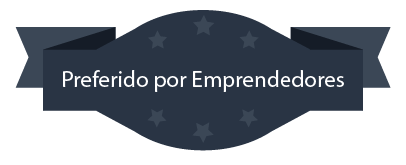
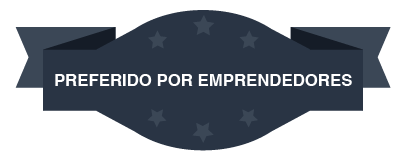
Cambio imagenes

Changed region(s): [[0.1182, 0.4242, 0.8867, 0.5455]]

diff --git a/index.html b/index.html
@@ -281,7 +281,7 @@
     <section class="ftco-section ftco-no-pt ftc-no-pb">
     	<div class="container">
     		<div class="row">
-    			<div class="col-lg-6 py-5">
+    			<div class="col-lg-6 py-5"> 
     				<img src="images/Img-nuestros-servicios.jpg" class="img-fluid" alt="">
     				<div class="heading-section ftco-animate mt-5">
 	            <h2 class="mb-4">Nuestros Servicios</h2>
@@ -358,10 +358,11 @@
 	          <div class="block-7" >
               
 	            <div class="text-center">
-
+                <img  src="images/pref-01.png" width="195px" height="auto">
 		            <h2 class="heading">Landing Page / One Page</h2>
-                <span class="price"><sup>$</sup><span class="number">279.99<!--<small class="per">/mo</small>--></span></span>
-                <span class="excerpt d-block">Preferido por los emprendedores</span>
+                
+                <!--<span class="price"><sup>$</sup><span class="number">279.99<small class="per">/mo</small></span></span>
+                <span class="excerpt d-block">Preferido por los emprendedores</span>-->
                 <h3 class="heading-2 mb-3">Enjoy All The Features</h3>
                 
                 <ul class="pricing-text mb-4">
@@ -387,8 +388,8 @@
 	          <div class="block-7">
 	            <div class="text-center">
 		            <h2 class="heading">Pagina Web Corporativa</h2>
-                <span class="price"><sup>$</sup> <span class="number">439.99 <!--<small class="per">/mo</small>--></span></span>
-                <span class="excerpt d-block">All features are included</span>
+                <!--<span class="price"><sup>$</sup> <span class="number">439.99 <small class="per">/mo</small></span></span>
+                <span class="excerpt d-block">All features are included</span>-->
                 <h3 class="heading-2 mb-3">Enjoy All The Features</h3>
                 
                 <ul class="pricing-text mb-4">
@@ -405,7 +406,7 @@
                   <li>Dominio/Hosting Gratis el Primer Año</li>
                   <li>Certificado SSL Gratis</li>
                 </ul>
-                <a href="#" class="btn btn-primary d-block px-3 py-3 mb-4">Choose Plan</a>
+                <a href="#" class="btn btn-primary d-block px-3 py-3 mb-4" style="margin-top: 76px">Choose Plan</a>
 	            </div>
 	          </div>
 	        </div>
@@ -413,8 +414,8 @@
 	          <div class="block-7">
 	            <div class="text-center">
 		            <h2 class="heading">Tienda Online - Shopify</h2>
-                <span class="price"><sup>$</sup> <span class="number">249.99 <!--<small class="per">/mo</small>--></span></span>
-                <span class="excerpt d-block">All features are included</span>
+                <!--<span class="price"><sup>$</sup> <span class="number">249.99 <small class="per">/mo</small></span></span>
+                <span class="excerpt d-block">All features are included</span>-->
                 <h3 class="heading-2 mb-3">Enjoy All The Features</h3>
                 
                 <ul class="pricing-text mb-4">
@@ -429,7 +430,7 @@
                   <li>Hosting Incluidos en la Membresia</li>
                   <li>Certificado SSL Gratis</li>
                 </ul>
-                <a href="#" class="btn btn-primary d-block px-3 py-3 mb-4" style="margin-top: 71px">Choose Plan</a>
+                <a href="#" class="btn btn-primary d-block px-3 py-3 mb-4" style="margin-top: 124px">Choose Plan</a>
 	            </div>
 	          </div>
 	        </div>

diff --git a/contact.html b/contact.html
@@ -55,7 +55,7 @@
 	       <div class="collapse navbar-collapse" id="ftco-nav">
 
 	         <ul class="navbar-nav ml-auto">
-	         <li class="nav-item"><a href="index.html" class="nav-link">Home</a></li>
+	         <li class="nav-item"><a href="index.html" class="nav-link">Inicio</a></li>
               <li class="nav-item"><a href="about.html" class="nav-link">About</a></li>
 
 <!--
@@ -67,7 +67,7 @@
 -->
 
 
-              <li class="nav-item active"><a href="contact.html" class="nav-link">Contact</a></li>
+              <li class="nav-item active"><a href="contact.html" class="nav-link">Contacto</a></li>
               <li class="nav-item cta"><a href="contact.html" class="nav-link"><span>Get started</span></a></li>
 	        </ul>
 	      </div>
@@ -80,8 +80,8 @@
       <div class="container">
         <div class="row no-gutters slider-text align-items-end justify-content-start">
           <div class="col-md-8 ftco-animate text-center text-md-left mb-5">
-          	<p class="breadcrumbs mb-0"><span class="mr-3"><a href="index.html">Home <i class="ion-ios-arrow-forward"></i></a></span> <span>Contact</span></p>
-            <h1 class="mb-3 bread">Contact Us</h1>
+          	<p class="breadcrumbs mb-0"><span class="mr-3"><a href="index.html">Inicio <i class="ion-ios-arrow-forward"></i></a></span> <span>Contacto</span></p>
+            <h1 class="mb-3 bread">Contacto</h1>
           </div>
         </div>
       </div>
@@ -133,6 +133,12 @@
               </div>
             </form>
           
+          </div>
+
+          <div class="col-md-6">
+
+            <img src="images/Panamá.jpg" width="100%" height="69%">
+
           </div>
 
           <!--Google maps

diff --git a/css/style.css b/css/style.css
@@ -10059,13 +10059,8 @@ textarea.form-control {
 
 }
 
-.img-index{
+.img-contacto-panama{
 
-  content: "";
-  width: 100%;
-  height: 100%;
-  background: ;
-  float: right;
-
+  float: left;
 
 }
